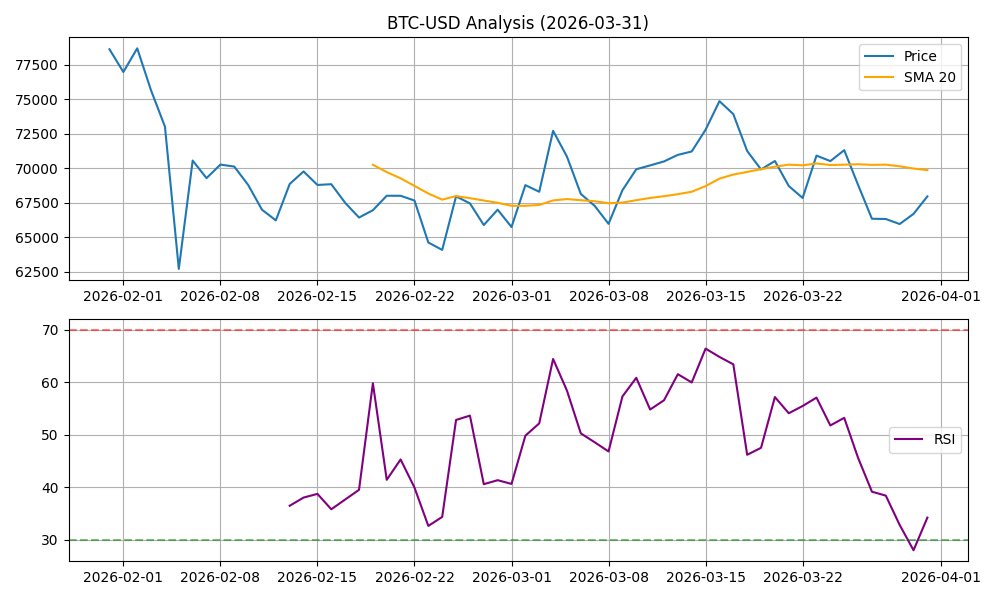
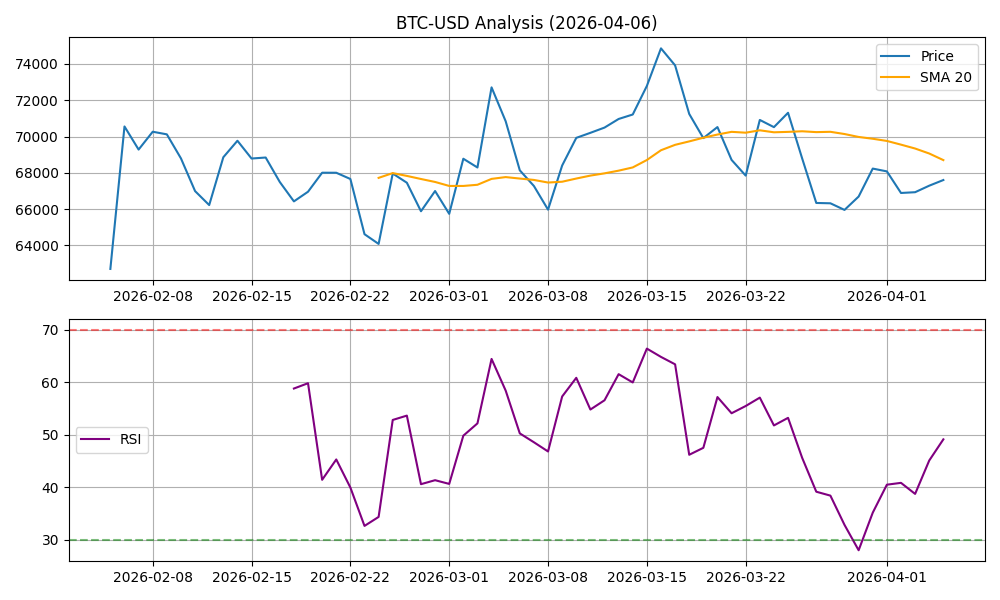
Update market analysis chart. Refreshed Dashboard.

diff --git a/README.md b/README.md
@@ -1,6 +1,6 @@
 # 🤖 Advanced Engineering Automation Dashboard
 
-**Auto-generated Report** | Last Updated: 2026-04-03 02:27:17
+**Auto-generated Report** | Last Updated: 2026-04-06 02:27:11
 
 > **Project Overview**
 > This project performs real data fetching and analysis.
@@ -11,7 +11,7 @@
 > *This is a legitimate "Data Collection & Analysis" project, not a fake commit generator.*
 
 ## 📊 Market Pulse (CryptoAnalyst)
-> 2026-03-31 23:06:42.619366: BTC $67959.42 | RSI: 34.24
+> 2026-04-06 02:27:11.863311: BTC $67602.16 | RSI: 49.13
 
 ![BTC Analysis](data/btc_analysis.png)
 
